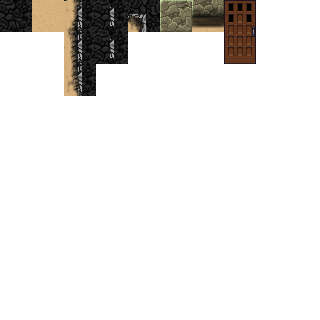
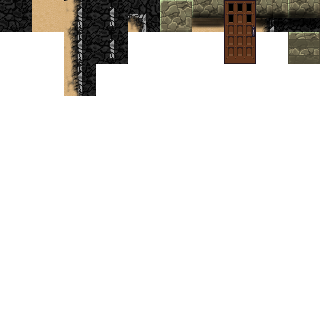
Más sprites y modificación en concepto de paquete mapa.cuadro

Changed region(s): [[0.7812, 0.0, 1.0, 0.2188]]

diff --git a/src/mapa/cuadro/Cuadro.java b/src/mapa/cuadro/Cuadro.java
@@ -3,16 +3,27 @@ package mapa.cuadro;
 import graficos.Pantalla;
 import graficos.Sprite;
 
-public abstract class Cuadro {
+public class Cuadro {
 
     public int x, y;
     public Sprite sprite;
-    
+
     public static final int LADO = 32;
 
     //Tiles
-    public static final Cuadro VACIO = new CuadroVacio(Sprite.VACIO);
-    public static final Cuadro ASFALTO = new CuadroAsfalto(Sprite.ASFALTO);
+    public static final Cuadro VACIO = new Cuadro(Sprite.VACIO);
+    public static final Cuadro ASFALTO = new Cuadro(Sprite.ASFALTO);
+    public static final Cuadro ARENA = new Cuadro(Sprite.ARENA);
+    public static final Cuadro BORDE_CARRETERA_ARENA = new Cuadro(Sprite.BORDE_CARRETERA_ARENA);
+    public static final Cuadro CENTRO_CARRETERA = new Cuadro(Sprite.CENTRO_CARRETERA);
+    public static final Cuadro ESQUINA_CARRETERA = new Cuadro(Sprite.ESQUINA_CARRETERA);
+    public static final Cuadro PARED_PIEDRA = new Cuadro(Sprite.PARED_PIEDRA);
+    public static final Cuadro BORDE_PARED_PIEDRA_ARENA = new Cuadro(Sprite.BORDE_PARED_PIEDRA_ARENA);
+    public static final Cuadro PUERTA_PARTE_SUPERIOR = new Cuadro(Sprite.PUERTA_PARTE_SUPERIOR);
+    public static final Cuadro PUERTA_PARTE_INFERIOR = new Cuadro(Sprite.PUERTA_PARTE_INFERIOR);
+    public static final Cuadro UNION_PARED_PIEDRA_BORDE_CARRETERA_ARENA = new Cuadro(Sprite.UNION_PARED_PIEDRA_BORDE_CARRETERA_ARENA);
+    public static final Cuadro BORDE_PARED_PIEDRA_ASFALTO = new Cuadro(Sprite.BORDE_PARED_PIEDRA_ASFALTO);
+    public static final Cuadro GRADA_PIEDRA = new Cuadro(Sprite.GRADA_PIEDRA);
     //Fin
 
     public Cuadro(Sprite sprite) {

diff --git a/src/graficos/Sprite.java b/src/graficos/Sprite.java
@@ -12,6 +12,17 @@ public final class Sprite {
     //Inicio
     public static final Sprite VACIO = new Sprite(32, 0);
     public static final Sprite ASFALTO = new Sprite(32, 0, 0, HojaSprites.desierto);
+    public static final Sprite ARENA = new Sprite(32, 1, 0, HojaSprites.desierto);
+    public static final Sprite BORDE_CARRETERA_ARENA = new Sprite(32, 2, 1, HojaSprites.desierto);
+    public static final Sprite CENTRO_CARRETERA = new Sprite(32, 3, 0, HojaSprites.desierto);
+    public static final Sprite ESQUINA_CARRETERA = new Sprite(32, 4, 0, HojaSprites.desierto);
+    public static final Sprite PARED_PIEDRA = new Sprite(32, 5, 0, HojaSprites.desierto);
+    public static final Sprite BORDE_PARED_PIEDRA_ARENA = new Sprite(32, 6, 0, HojaSprites.desierto);
+    public static final Sprite PUERTA_PARTE_SUPERIOR = new Sprite(32, 7, 0, HojaSprites.desierto);
+    public static final Sprite PUERTA_PARTE_INFERIOR = new Sprite(32, 7, 1, HojaSprites.desierto);
+    public static final Sprite UNION_PARED_PIEDRA_BORDE_CARRETERA_ARENA = new Sprite(32, 8, 0, HojaSprites.desierto);
+    public static final Sprite BORDE_PARED_PIEDRA_ASFALTO = new Sprite(32, 9, 0, HojaSprites.desierto);
+    public static final Sprite GRADA_PIEDRA = new Sprite(32, 9, 1, HojaSprites.desierto);
     //Fin
 
     public Sprite(final int lado, final int columna, final int fila, final HojaSprites hoja) {

diff --git a/src/mapa/Mapa.java b/src/mapa/Mapa.java
@@ -54,6 +54,28 @@ public abstract class Mapa {
         switch (tiles[x + y * ancho]) {
             case 0:
                 return Cuadro.ASFALTO;
+            case 1:
+                return Cuadro.ARENA;
+            case 2:
+                return Cuadro.BORDE_CARRETERA_ARENA;
+            case 3:
+                return Cuadro.CENTRO_CARRETERA;
+            case 4:
+                return Cuadro.ESQUINA_CARRETERA;
+            case 5:
+                return Cuadro.PARED_PIEDRA;
+            case 6:
+                return Cuadro.BORDE_PARED_PIEDRA_ARENA;
+            case 7:
+                return Cuadro.PUERTA_PARTE_SUPERIOR;
+            case 8:
+                return Cuadro.PUERTA_PARTE_INFERIOR;
+            case 9:
+                return Cuadro.UNION_PARED_PIEDRA_BORDE_CARRETERA_ARENA;
+            case 10:
+                return Cuadro.BORDE_PARED_PIEDRA_ASFALTO;
+            case 11:
+                return Cuadro.GRADA_PIEDRA;
             default:
                 return Cuadro.VACIO;
         }

diff --git a/src/mapa/MapaGenerado.java b/src/mapa/MapaGenerado.java
@@ -13,7 +13,7 @@ public class MapaGenerado extends Mapa {
     protected void generarMapa() {
         for (int y = 0; y < alto; y++) {
             for (int x = 0; x < ancho; x++) {
-                tiles[x + y * ancho] = aleatorio.nextInt(3);
+                tiles[x + y * ancho] = aleatorio.nextInt(12);
             }
         }
     }
